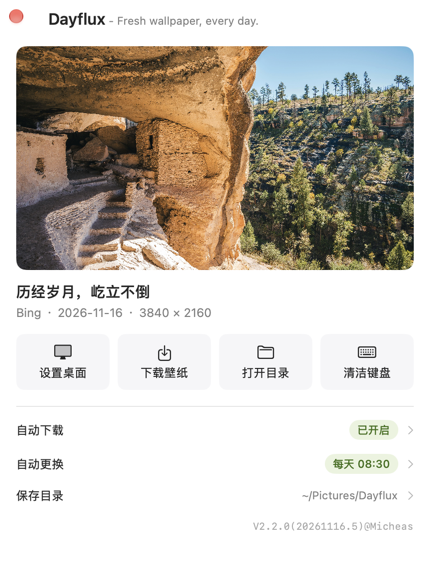
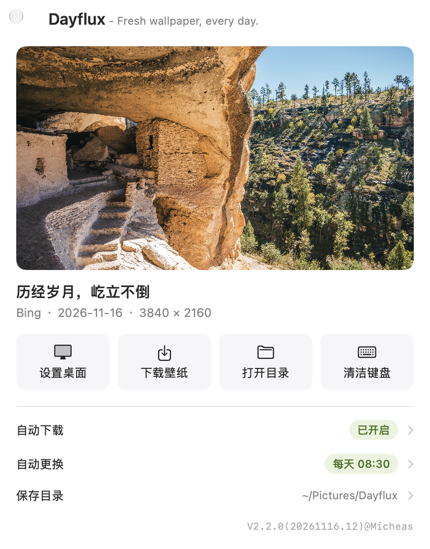
fix: 2.2.0 消除页脚下方空白，窗口高度随标题上移同步收紧

diff --git a/Sources/main.swift b/Sources/main.swift
@@ -138,11 +138,12 @@ final class AppDelegate: NSObject, NSApplicationDelegate, NSWindowDelegate {
         // 并显式隐藏最小化与绿色缩放/全屏两个标准按钮。
         window.standardWindowButton(.miniaturizeButton)?.isHidden = true
         window.standardWindowButton(.zoomButton)?.isHidden = true
-        window.setFrameAutosaveName("DayfluxMainWindow")
+        // 不用 frame autosave：窗口固定右上角、位置由 positionAtTopRight() 决定，
+        // 而 autosave 会在显示时还原旧尺寸（含标题栏补偿），导致页脚下方多出空白。
+        // 高度交给 NSWindow/AppKit：挂载 hosting controller 后系统按 SwiftUI 理想高度
+        // 自动扣除透明标题栏补偿（约 32pt），无需再调 setContentSize。
         let fitting = hosting.view.fittingSize
-        if fitting.height > 200 {
-            window.setContentSize(NSSize(width: 430, height: fitting.height))
-        }
+        dayfluxStatusLog("窗口高度由 AppKit 自适应 fitting=\(fitting.height) 实际=\(window.frame.height)")
         window.center()
         window.delegate = self
     }

diff --git a/Sources/Views.swift b/Sources/Views.swift
@@ -255,6 +255,10 @@ struct ContentView: View {
         .frame(width: 430)
         .background(Color.white)
         .ignoresSafeArea(edges: .top)
+        // AppKit 按 fittingSize 建窗时会额外加回一个标题栏补偿（约 32pt），
+        // 标题已抬入标题栏、并不需要这段高度，负 bottom padding 抵消它，
+        // 否则页脚下方会多出一条空白。不要在 main.swift 里再 setContentSize，会被布局覆盖。
+        .padding(.bottom, -32)
         .sheet(isPresented: $state.showingSettings) {
             SettingsView(state: state)
         }

diff --git a/README.md b/README.md
@@ -101,7 +101,7 @@ open build/Dayflux.app
 
 - 当前版本 **2.2.0**；首个公开发布版本为 2.0.0。
 - 三段语义化规则：第 1 位用于新增功能或大的功能性升级，第 2 位用于小的功能性调整，第 3 位**只在纯 BUG 修复时**变更。
-- 主界面右下角页脚形如 `V2.2.0(20261116.5)@Micheas`：软件版本、构建日期与当天第几次成功编译、作者署名。
+- 主界面右下角页脚形如 `V2.2.0(20261116.12)@Micheas`：软件版本、构建日期与当天第几次成功编译、作者署名。
 - 版本号在 `build.sh` 顶部 `APP_VERSION`、署名在 `AUTHOR_TAG`；构建序号由脚本按当天成功次数自动累加（跨天归 1，失败不计数），存于不入库的 `.buildcounter`；`build/generated/BuildInfo.swift` 由脚本生成，页脚与 `Info.plist` 使用同一份值。
 - 各版本发布说明见 [GitHub Releases](https://github.com/kingdocs/dayflux/releases)。
 
